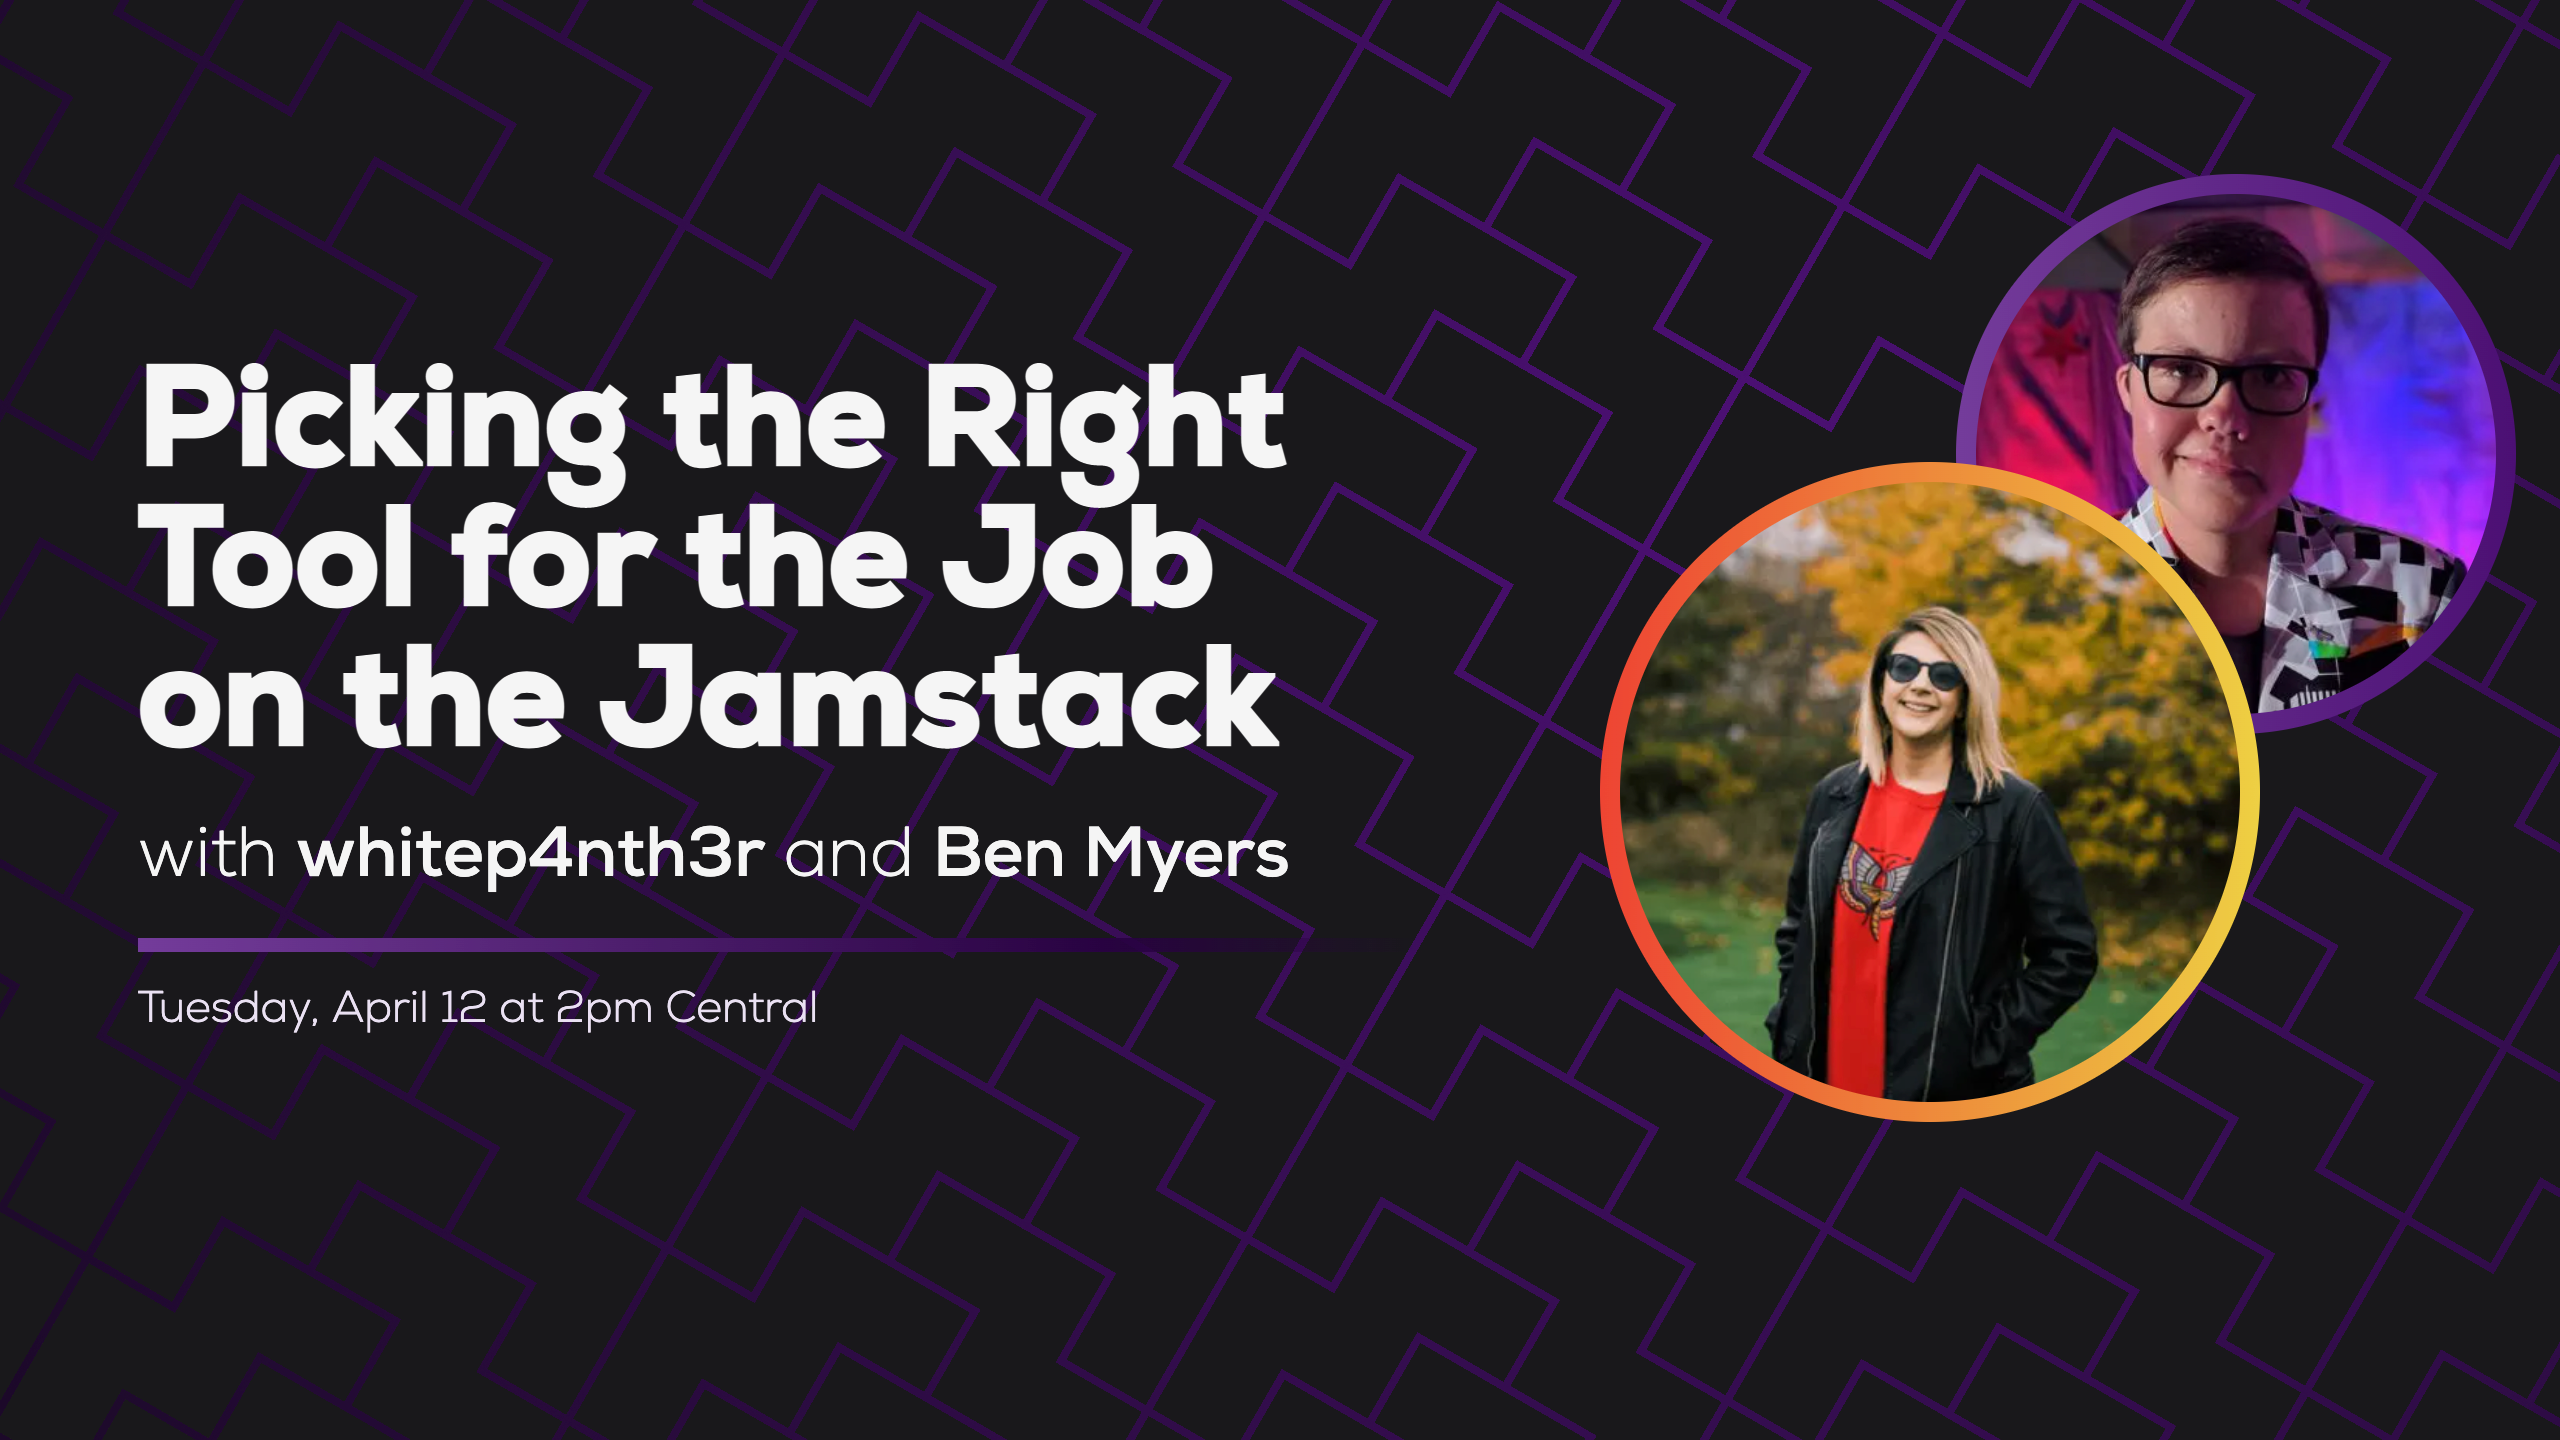
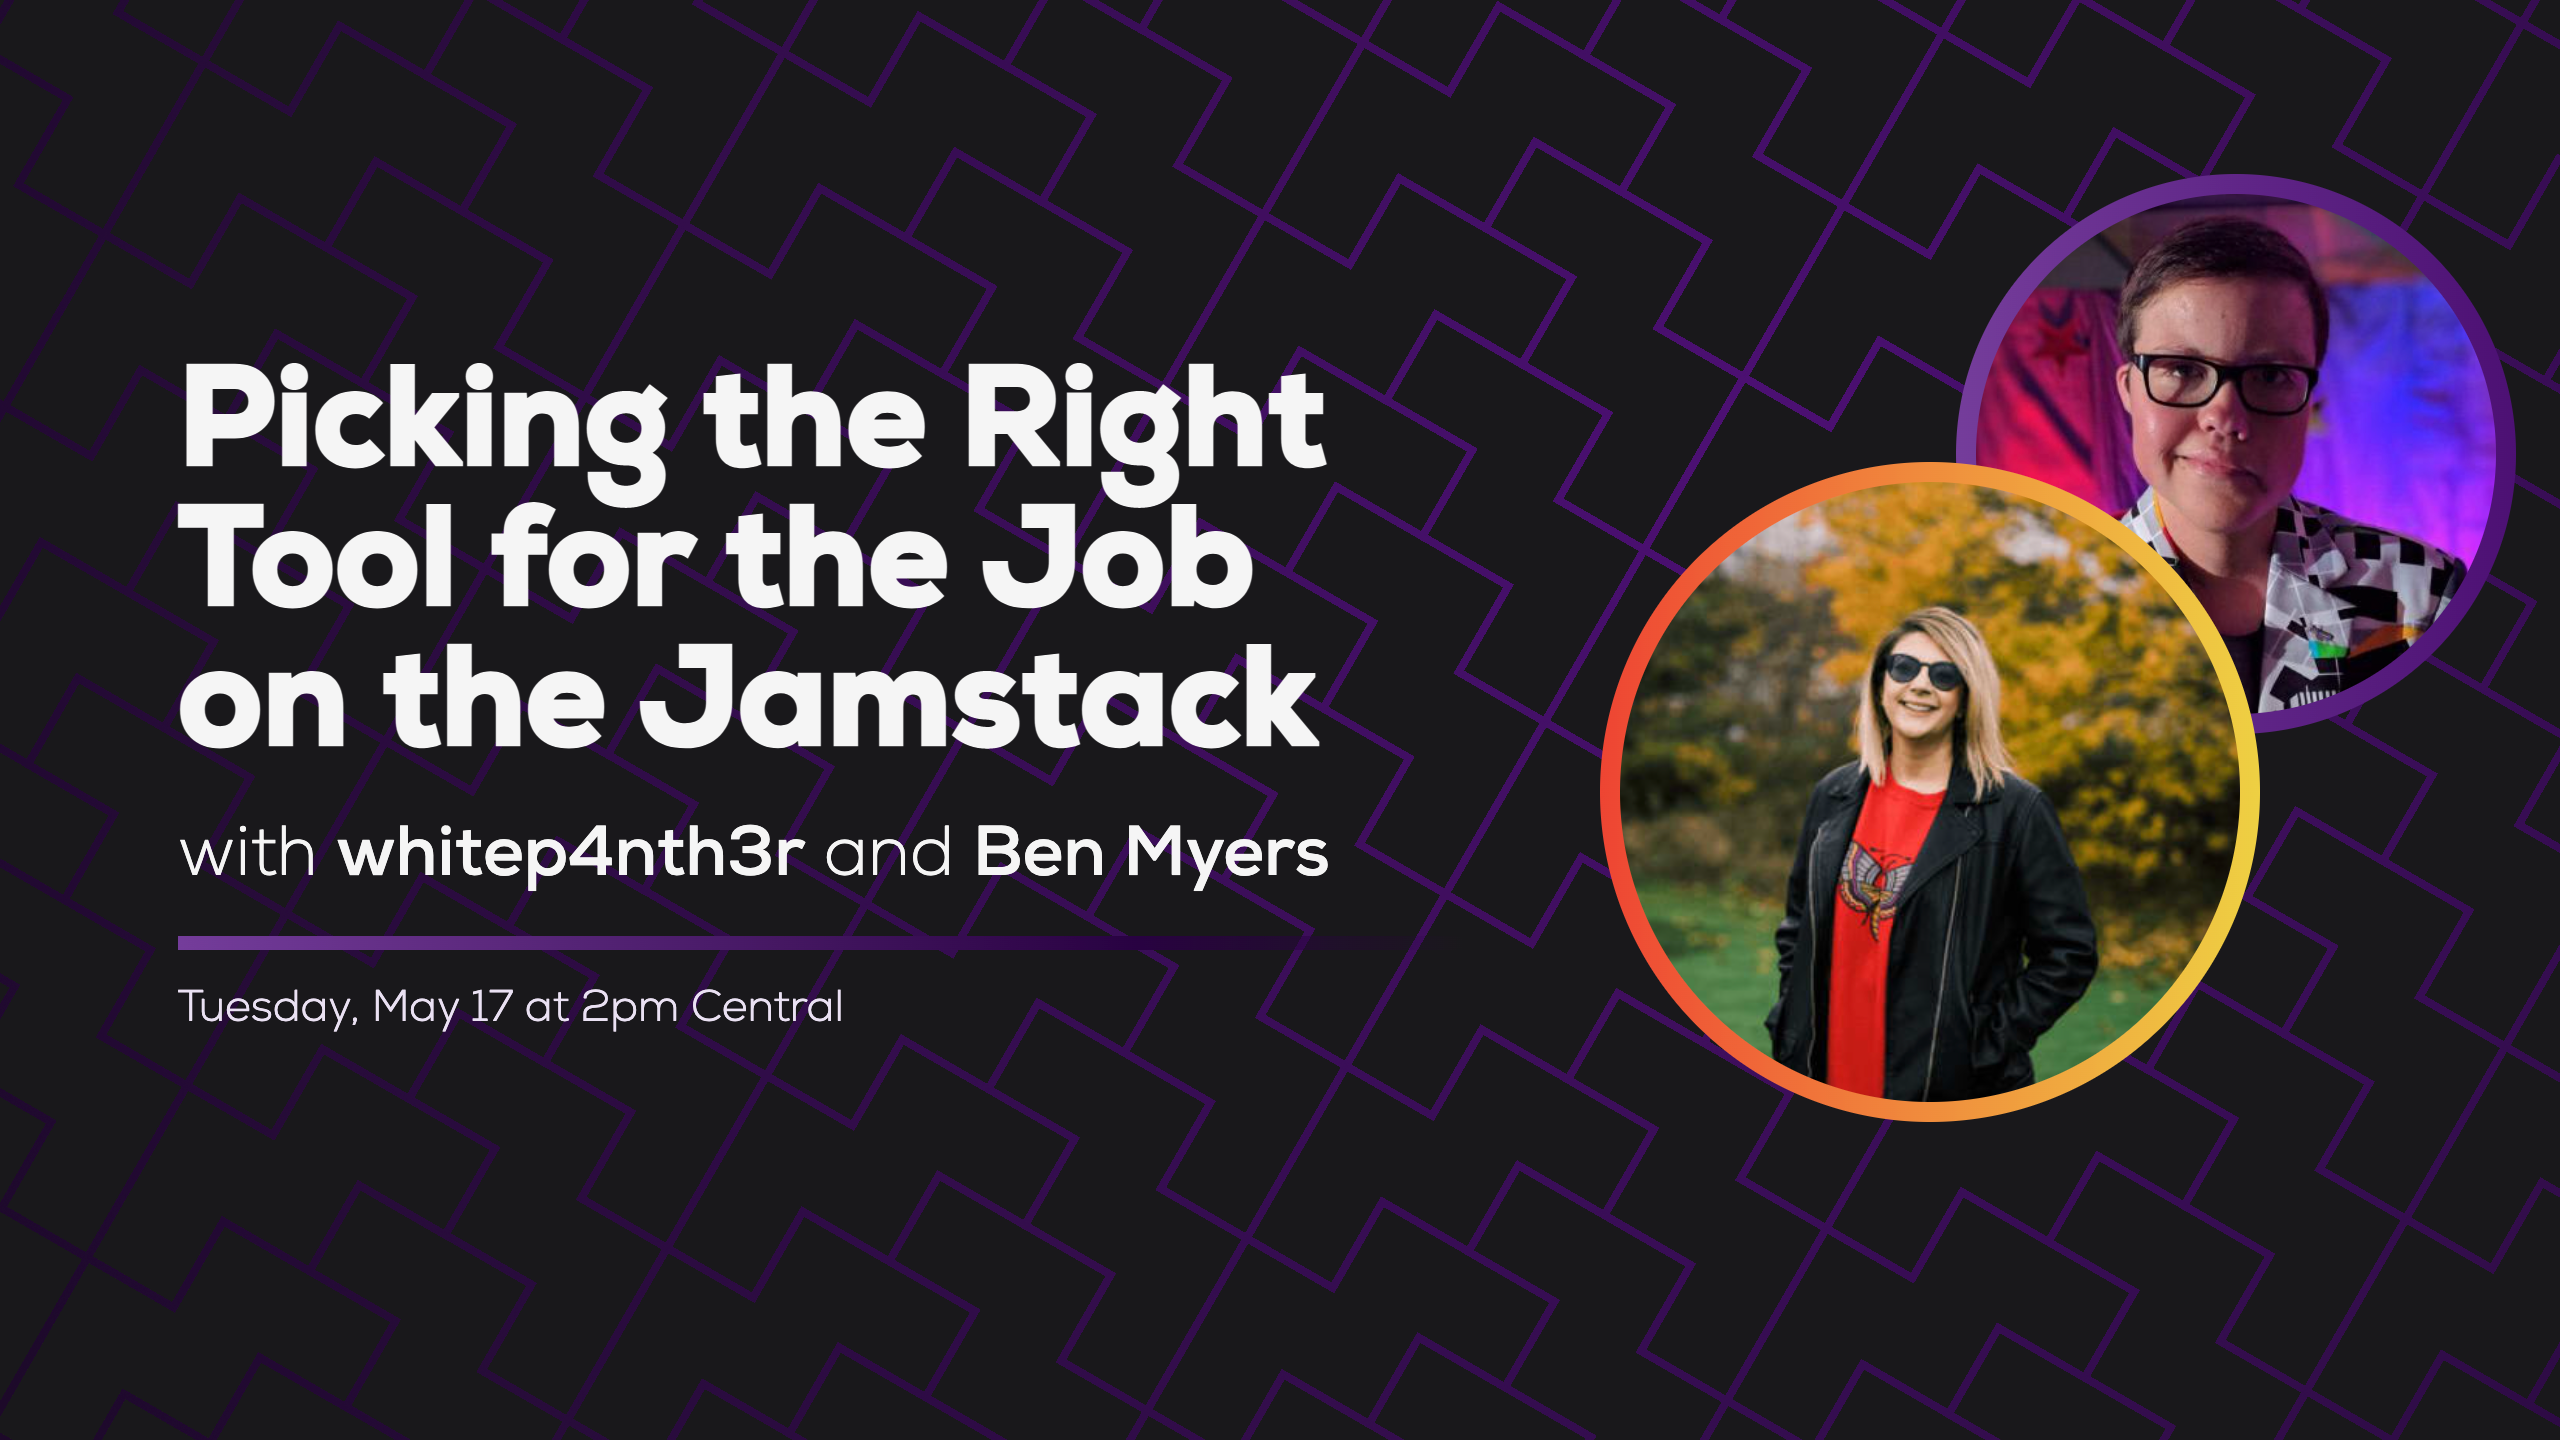
Reschedule Salma

Changed region(s): [[0.0312, 0.25, 0.5312, 0.5312], [0.0625, 0.5625, 0.5312, 0.625], [0.0625, 0.6875, 0.3438, 0.7188]]

diff --git a/src/thumbnail.html b/src/thumbnail.html
@@ -136,12 +136,12 @@
 <body>
 	<div class="flex">
 		<header>
-			<h1>Theme a Twitch Chat<br/>Overlay with CSS</h1>
-			<p id="hosts">with <b>Kevin Powell</b> and <b>Ben Myers</b></p>
-			<footer>Tuesday, May 6 at 2pm Central</footer>
+			<h1>Picking the Right<br/>Tool for the Job<br/>on the Jamstack</h1>
+			<p id="hosts">with <b>whitep4nth3r</b> and <b>Ben Myers</b></p>
+			<footer>Tuesday, May 17 at 2pm Central</footer>
 		</header>
 		<main>
-			<img id="avatar-1" src="{{ 'Kevin Powell' | avatar: profiles }}" alt="" />
+			<img id="avatar-1" src="{{ 'Salma Alam-Naylor' | avatar: profiles }}" alt="" />
 			<div class="ring"></div>
 			<img id="avatar-2" src="{{ 'Ben Myers' | avatar: profiles }}" alt="" />
 			<div class="ring"></div>
